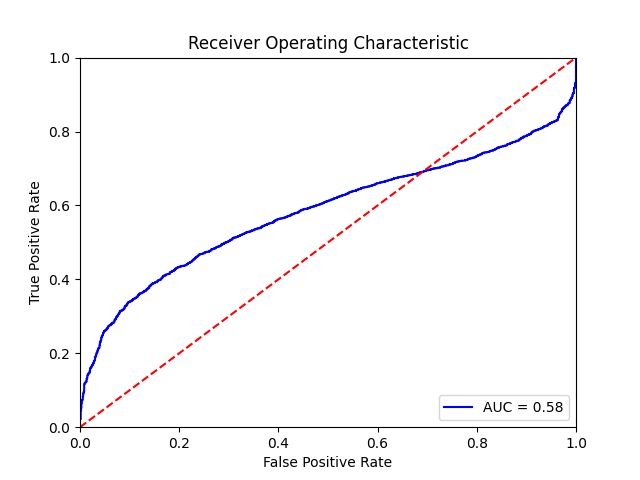
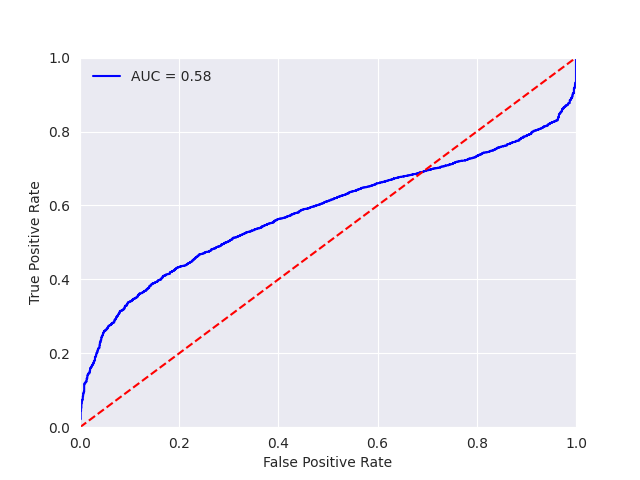
seaborn template added for huggingface figs

diff --git a/huggingface/benchmarks/match.py b/huggingface/benchmarks/match.py
@@ -61,6 +61,7 @@ def save(scores, labels, sem_scores):
 def plot_roc(label_file = "labels.npy"):
     scores = np.load("scores.npy")
     n = scores.shape[0]
+    import seaborn as sns
     scores = list(scores)
     print(min(scores), max(scores))
     labels = list(np.load(label_file))
@@ -71,9 +72,11 @@ def plot_roc(label_file = "labels.npy"):
 
     import matplotlib.pyplot as plt
     plt.clf()
-    plt.title('Receiver Operating Characteristic')
+    sns.set_style("darkgrid")
+    #plt.title('Receiver Operating Characteristic')
     plt.plot(fpr, tpr, 'b', label = 'AUC = %0.2f' % roc_auc)
     plt.legend(loc = 'lower right')
+    plt.legend(frameon=False)
     plt.plot([0, 1], [0, 1],'r--')
     plt.xlim([0, 1])
     plt.ylim([0, 1])
